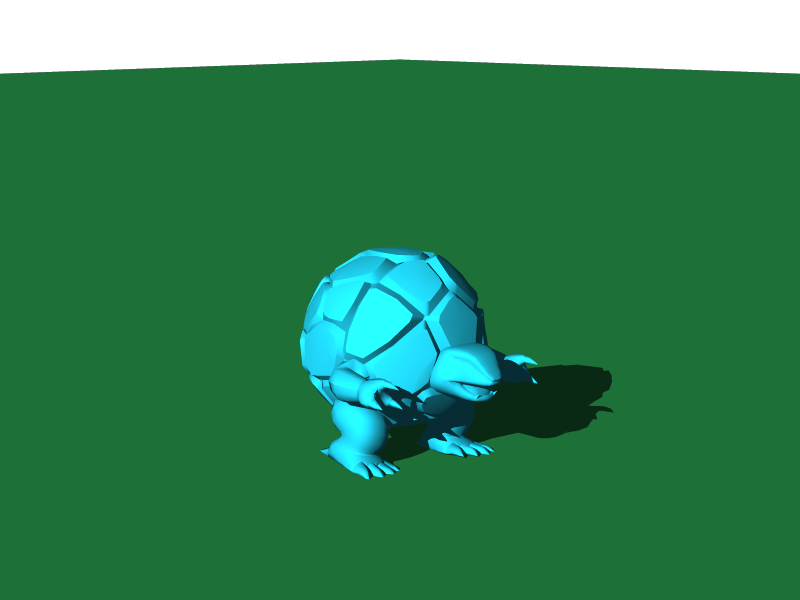
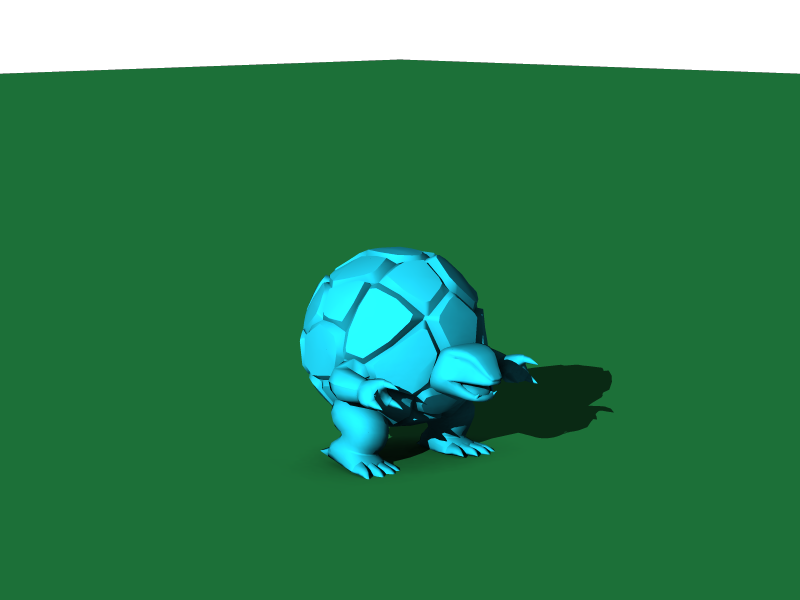
Added support for ambient occlusion

diff --git a/src/world/scene.rs b/src/world/scene.rs
@@ -8,26 +8,37 @@ use crate::{
     lighting::{Light, LightEnum},
     shader::Shader,
     tracing::{WorldHit, WorldRay},
+    utils::sampling,
     world::{Object, World},
 };
 
 pub struct Scene {
     ambient: Rgb,
+    ambient_occlusion: Option<AmbientOcclusion>,
     lights: Vec<LightEnum>,
     objects: Vec<Object>,
     bvh: Option<Bvh<ObjectId>>,
 }
 
+#[derive(Debug, Clone, Copy)]
+
+pub struct AmbientOcclusion {
+    pub samples: usize,
+    pub distance: f32,
+    pub strength: f32,
+}
+
 impl Default for Scene {
     fn default() -> Self {
-        Self::new(Rgb::WHITE)
+        Self::new(Rgb::WHITE, None)
     }
 }
 
 impl Scene {
-    pub fn new(ambient: Rgb) -> Self {
+    pub fn new(ambient: Rgb, ambient_occlusion: Option<AmbientOcclusion>) -> Self {
         Self {
             ambient,
+            ambient_occlusion,
             lights: Vec::new(),
             objects: Vec::new(),
             bvh: None,
@@ -98,7 +109,29 @@ impl Scene {
         let object = self.get_object(hit.object_id);
         let shader = world.get_shader(object.shader_id);
 
-        shader.albedo(hit) * self.ambient
+        shader.albedo(hit) * self.ambient * self.ambient_occlusion_factor(world, hit)
+    }
+
+    fn ambient_occlusion_factor(&self, world: &World, hit: &WorldHit) -> f32 {
+        let Some(ao) = self.ambient_occlusion else {
+            return 1.0;
+        };
+
+        if ao.samples == 0 || ao.distance <= 0.0 || ao.strength <= 0.0 {
+            return 1.0;
+        }
+
+        let occluded = (0..ao.samples)
+            .filter(|&i| {
+                let direction = sampling::hemisphere_direction(hit.normal, i, ao.samples);
+                let ray = WorldRay::from_offset(hit.position, hit.normal, direction);
+                self.occluded(world, &ray, ao.distance)
+            })
+            .count();
+
+        let occlusion = occluded as f32 / ao.samples as f32;
+
+        1.0 - ao.strength * occlusion
     }
 
     pub fn direct_light(&self, world: &World, world_ray: &WorldRay, hit: &WorldHit) -> Rgb {

diff --git a/src/config/scene_config.rs b/src/config/scene_config.rs
@@ -8,16 +8,19 @@ use serde::{Deserialize, Serialize};
 
 use crate::{
     colour::Rgb,
-    config::{BuiltImage, ImageConfig, LightConfig, Named, ObjectConfig},
+    config::{AmbientOcclusionConfig, BuiltImage, ImageConfig, LightConfig, Named, ObjectConfig, defaults},
     errors::SceneBuildError,
-    world::{Object, Scene, World},
+    world::{AmbientOcclusion, Object, Scene, World},
 };
 
 #[derive(Debug, Clone, Serialize, Deserialize)]
 pub struct SceneConfig {
     #[serde(default)]
     pub images: Vec<Named<ImageConfig>>,
+    #[serde(default = "defaults::white")]
     ambient: Rgb,
+    #[serde(default)]
+    ambient_occlusion: Option<AmbientOcclusionConfig>,
     #[serde(default)]
     pub lights: Vec<Named<LightConfig>>,
     #[serde(default)]
@@ -54,12 +57,13 @@ impl SceneConfig {
         let SceneConfig {
             images,
             ambient,
+            ambient_occlusion,
             lights,
             objects,
         } = self;
 
         let mut world = World::new();
-        let mut scene = Scene::new(ambient);
+        let mut scene = Scene::new(ambient, ambient_occlusion.map(|config| config.build()));
 
         for light in lights {
             let light = light.resolve("light")?;

diff --git a/src/utils/sampling.rs b/src/utils/sampling.rs
@@ -1,0 +1,29 @@
+use nalgebra::{Unit, Vector3};
+
+pub fn hemisphere_direction(normal: Unit<Vector3<f32>>, index: usize, samples: usize) -> Unit<Vector3<f32>> {
+    let n = normal.into_inner();
+
+    let helper = if n.x.abs() < 0.9 {
+        Vector3::x_axis().into_inner()
+    } else {
+        Vector3::y_axis().into_inner()
+    };
+
+    let tangent = n.cross(&helper).normalize();
+    let bitangent = n.cross(&tangent).normalize();
+
+    let i = index as f32;
+    let count = samples.max(1) as f32;
+
+    let u = (i + 0.5) / count;
+    let v = ((i * 0.618_034) % 1.0).fract();
+
+    let r = u.sqrt();
+    let theta = std::f32::consts::TAU * v;
+
+    let x = r * theta.cos();
+    let y = r * theta.sin();
+    let z = (1.0 - u).sqrt();
+
+    Unit::new_normalize(tangent * x + bitangent * y + n * z)
+}

diff --git a/src/config/ambient_occlusion_config.rs b/src/config/ambient_occlusion_config.rs
@@ -1,0 +1,20 @@
+use serde::{Deserialize, Serialize};
+
+use crate::world::AmbientOcclusion;
+
+#[derive(Debug, Clone, Copy, Serialize, Deserialize)]
+pub struct AmbientOcclusionConfig {
+    pub samples: usize,
+    pub distance: f32,
+    pub strength: f32,
+}
+
+impl AmbientOcclusionConfig {
+    pub fn build(self) -> crate::world::AmbientOcclusion {
+        AmbientOcclusion {
+            samples: self.samples,
+            distance: self.distance,
+            strength: self.strength.clamp(0.0, 1.0),
+        }
+    }
+}

diff --git a/src/config/defaults.rs b/src/config/defaults.rs
@@ -1,4 +1,7 @@
-use crate::{colour::Rgba, config::Vec3};
+use crate::{
+    colour::{Rgb, Rgba},
+    config::Vec3,
+};
 
 pub fn one_f32() -> f32 {
     1.0
@@ -14,6 +17,10 @@ pub fn unit_square() -> [f32; 2] {
 
 pub fn z_axis() -> Vec3 {
     Vec3([0.0, 0.0, 1.0])
+}
+
+pub fn white() -> Rgb {
+    Rgb::WHITE
 }
 
 pub fn transparent() -> Rgba {

diff --git a/src/lib.rs b/src/lib.rs
@@ -26,6 +26,6 @@ pub mod prelude {
         render::{RenderSettings, render_image, render_image_with_progress, render_probe},
         shader::{Block, Checkerboard, Lambertion, Luminous},
         storage::{Grid, Image, RgbImage, RgbaImage},
-        world::{Object, Scene, World},
+        world::{AmbientOcclusion, Object, Scene, World},
     };
 }

diff --git a/src/config/mod.rs b/src/config/mod.rs
@@ -1,3 +1,4 @@
+mod ambient_occlusion_config;
 mod built_image;
 mod camera_config;
 mod defaults;
@@ -14,6 +15,7 @@ mod transform_config;
 mod vec2;
 mod vec3;
 
+pub use ambient_occlusion_config::AmbientOcclusionConfig;
 pub use built_image::BuiltImage;
 pub use camera_config::CameraConfig;
 pub use geometry_config::GeometryConfig;

diff --git a/src/world/mod.rs b/src/world/mod.rs
@@ -3,5 +3,5 @@ mod scene;
 mod world;
 
 pub use object::Object;
-pub use scene::Scene;
+pub use scene::{AmbientOcclusion, Scene};
 pub use world::World;

diff --git a/src/utils/mod.rs b/src/utils/mod.rs
@@ -1,1 +1,2 @@
 pub mod physics;
+pub mod sampling;
